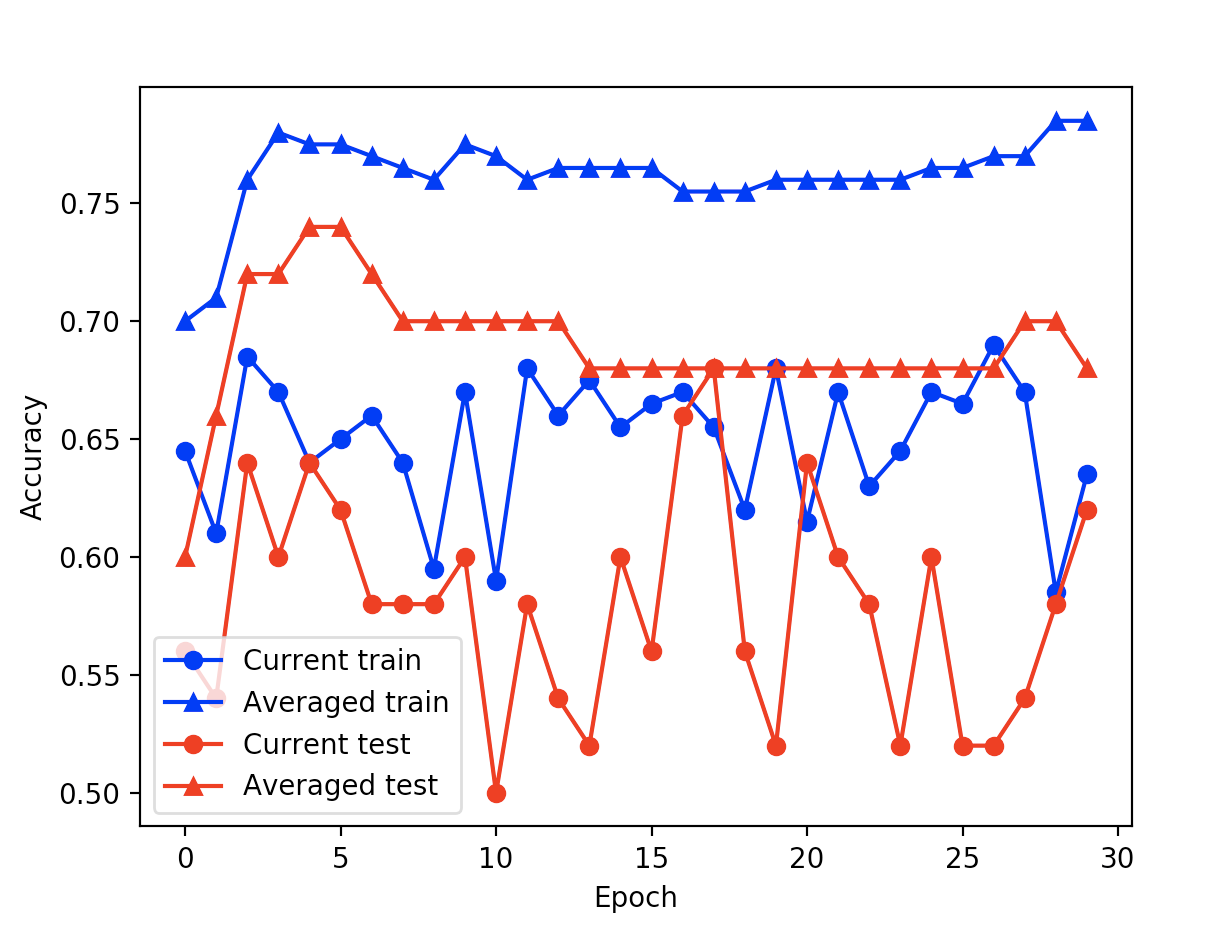
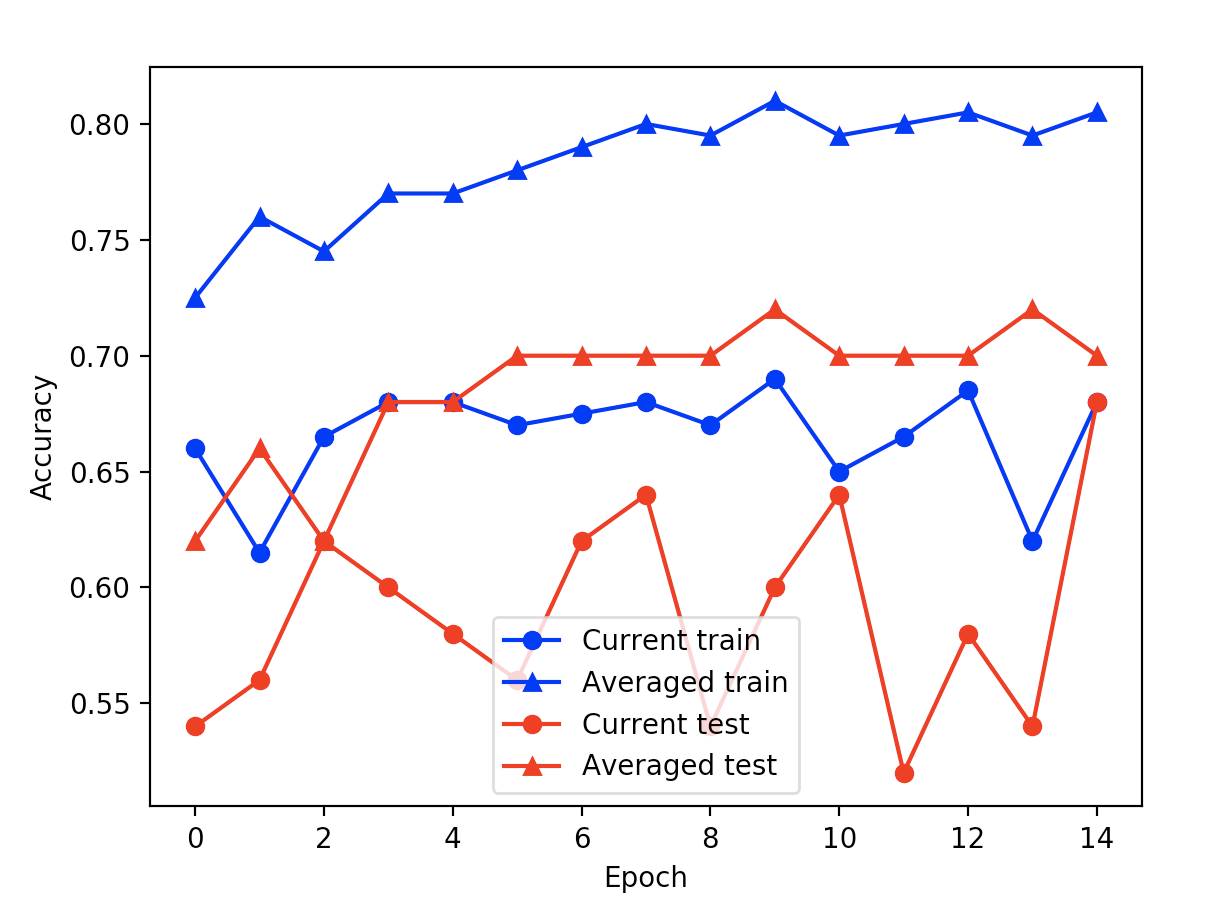
break out decision function

diff --git a/linearly-classify.py b/linearly-classify.py
@@ -8,7 +8,7 @@ from matplotlib.pyplot import *
 import json
 
 data_vectorization_labels = [1.0, "is_weekday", "is_Saturday", "is_Sunday", "is_morning", "is_afternoon", "is_evening", "is_<30", "is_30-60", "is_>60", "is_silly", "is_happy", "is_tired", "friendsVisiting", "kidsPlaying", "atHome", "snacks"]
-training_epochs = 30
+training_epochs = 15
 attr_dict = {}
 training_accuracies_current = []
 test_accuracies_current = []
@@ -38,10 +38,6 @@ def build_attr_dict():
     attr_dict[1] = {'morning': 0.0, 'afternoon': 0.0, 'evening': 0.0}
     attr_dict[2] = {'<30': 0.0, '30-60': 0.0, '>60': 0.0}
     attr_dict[3] = {'silly': 0.0, 'happy': 0.0, 'tired': 0.0}
-    attr_dict[4] = {'no': 0.0, 'yes': 0.0}
-    attr_dict[5] = {'no': 0.0, 'yes': 0.0}
-    attr_dict[6] = {'no': 0.0, 'yes': 0.0}
-    attr_dict[7] = {'no': 0.0, 'yes': 0.0}
 
 def vectorize_data(data_set):
     label_idx = len(data_set[0]) - 1
@@ -52,8 +48,15 @@ def vectorize_data(data_set):
         vectorized_row = [1.0]
         for idx, attr in enumerate(row):
             if not idx is label_idx:
-                attr_dict[idx][attr] = 1.0
-                vectorized_row  = vectorized_row + list(attr_dict[idx].values())
+                if idx < 4:
+                    attr_dict[idx][attr] = 1.0
+                    vectorized_row  = vectorized_row + list(attr_dict[idx].values())
+                else:
+                    if attr == 'no':
+                        vectorized_row.append(0.0)
+                    else:
+                        vectorized_row.append(1.0)
+
         vectorized_data.append(vectorized_row)
         reset_dict()
 
@@ -66,9 +69,7 @@ def averaged_perceptron(train_set, train_labels, test_data, test_labels):
 
     for l in range(training_epochs):
         for i in range(len(train)):
-            h = 0.0
-            if np.dot(w, train[i]) >= 0.0:
-                h = 1.0
+            h = decision_function(w, train[i])
 
             w = w + ((train_labels[i] - h) * train[i])
             t = t + w
@@ -79,6 +80,12 @@ def averaged_perceptron(train_set, train_labels, test_data, test_labels):
         print()
 
     return 1.0/(training_epochs * len(train)) * t
+
+def decision_function(w, row):
+    if np.dot(w, row) >= 0.0:
+        return 1.0
+
+    return 0.0
 
 def current_and_averaged_model_accuracy(train_set, test_set, train_labels, test_labels, avg_weights, current_weights):
     global training_accuracies_averaged
@@ -116,14 +123,7 @@ def reset_dict():
 def predict(data_set, weights):
     predictions = []
     for row in data_set:
-        activation = 0.0
-        for idx in range(len(row)):
-            activation += weights[idx] * row[idx]
-
-        if activation >= 1.0:
-            predictions.append(1.0)
-        else:
-            predictions.append(0.0)
+        predictions.append(decision_function(weights, row))
 
     return predictions
 
